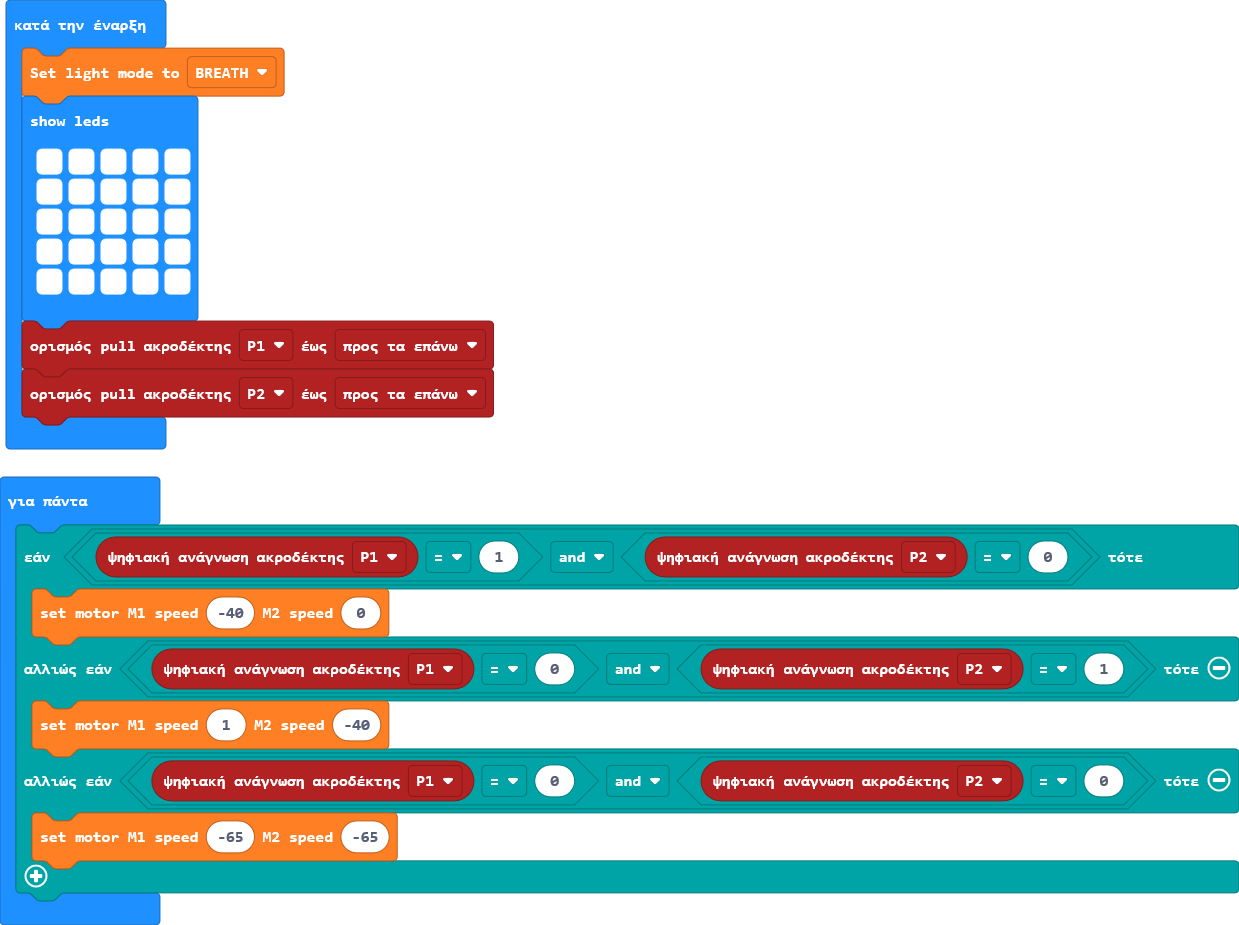
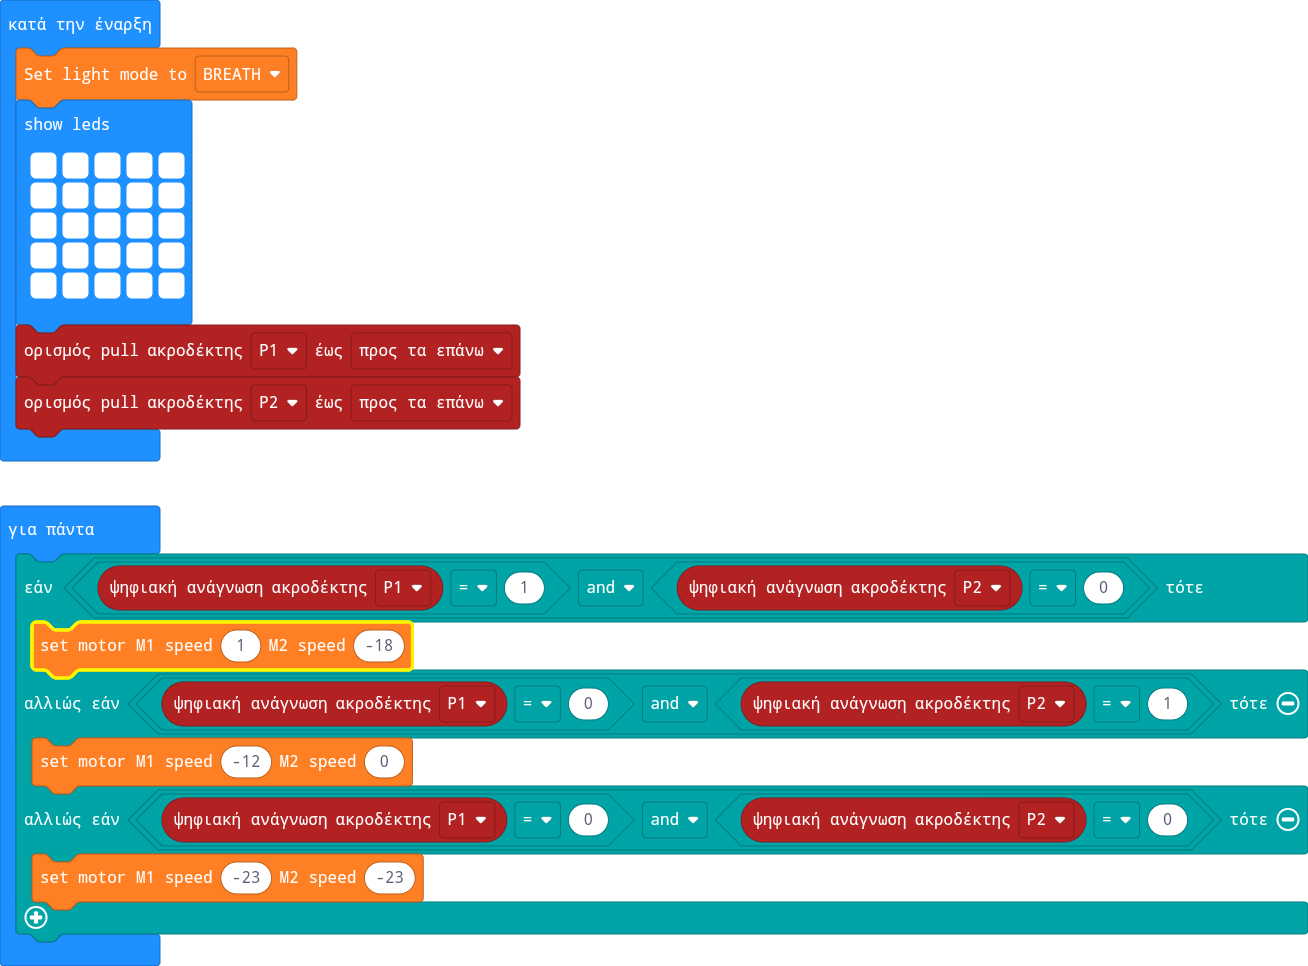
Ενημέρωση main.blocks, main.ts

Changed region(s): [[0.0, 0.5146, 1.0, 1.0], [0.0, 0.0, 0.3987, 0.4843]]

diff --git a/main.ts b/main.ts
@@ -10,10 +10,10 @@ pins.setPull(DigitalPin.P1, PinPullMode.PullUp)
 pins.setPull(DigitalPin.P2, PinPullMode.PullUp)
 basic.forever(function () {
     if (pins.digitalReadPin(DigitalPin.P1) == 1 && pins.digitalReadPin(DigitalPin.P2) == 0) {
-        wuKong.setAllMotor(-40, 0)
+        wuKong.setAllMotor(1, -18)
     } else if (pins.digitalReadPin(DigitalPin.P1) == 0 && pins.digitalReadPin(DigitalPin.P2) == 1) {
-        wuKong.setAllMotor(1, -40)
+        wuKong.setAllMotor(-12, 0)
     } else if (pins.digitalReadPin(DigitalPin.P1) == 0 && pins.digitalReadPin(DigitalPin.P2) == 0) {
-        wuKong.setAllMotor(-65, -65)
+        wuKong.setAllMotor(-23, -23)
     }
 })
